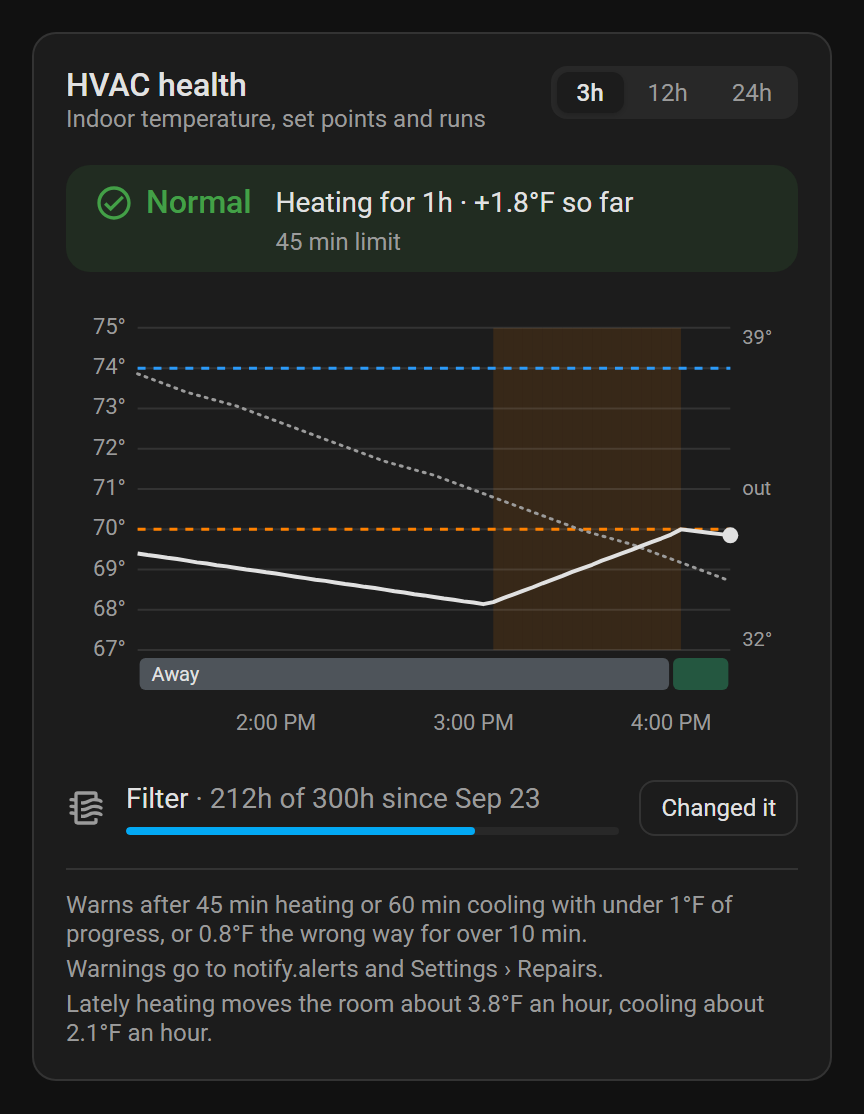
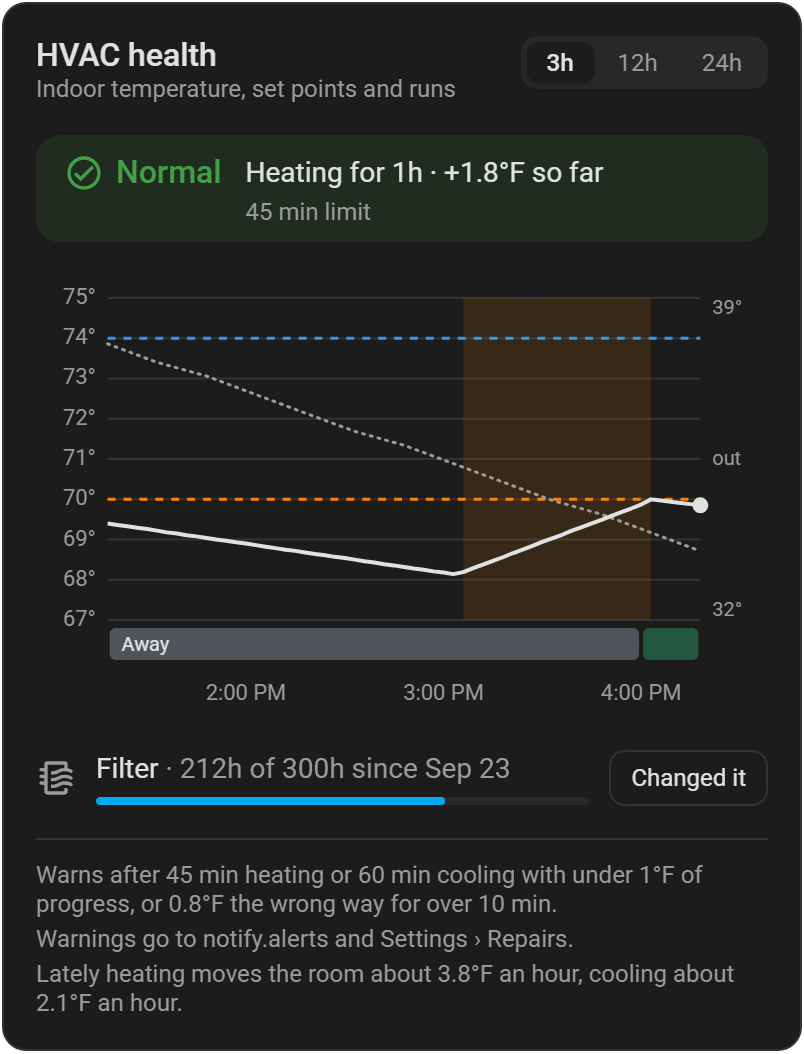
Screenshots: just the card, on a transparent background

diff --git a/tools/screenshots.html b/tools/screenshots.html
@@ -9,7 +9,8 @@
 -->
 <link rel="stylesheet" href="https://fonts.googleapis.com/css2?family=Roboto:wght@400;500;700&display=swap">
 <style>
-  body { font-family: Roboto, sans-serif; margin: 0; padding: 16px; background: var(--primary-background-color); color: var(--primary-text-color); }
+  /* Transparent page: the screenshots are just the card, with clean rounded corners. */
+  body { font-family: Roboto, sans-serif; margin: 0; padding: 16px; background: transparent; color: var(--primary-text-color); }
   body.dark {
     --primary-background-color: #111111; --card-background-color: #1c1c1c; --primary-text-color: #e1e1e1;
     --secondary-text-color: #9b9b9b; --secondary-background-color: #282828; --divider-color: rgba(225,225,225,.12);
